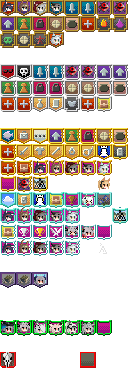
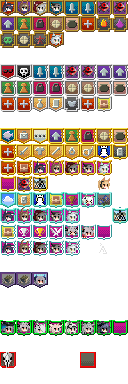
아이콘 이미지 바꾼거랑 제시카 스킨

Changed region(s): [[0.75, 0.8125, 1.0, 0.875]]

diff --git a/Arrrknights/core/src/main/java/com/shatteredpixel/shatteredpixeldungeon/actors/hero/HeroSubClass.java b/Arrrknights/core/src/main/java/com/shatteredpixel/shatteredpixeldungeon/actors/hero/HeroSubClass.java
@@ -88,35 +88,29 @@ public enum HeroSubClass {
 	public Image icon(){
 		switch (this){
 			case GLADIATOR: default:
-				return new Image(Assets.Interfaces.BUFFS_LARGE, 16, 16, 16, 16);
+				return new Image(Assets.Interfaces.BUFFS_LARGE, 0, 80, 16, 16);
 			case BERSERKER:
-				return new Image(Assets.Interfaces.BUFFS_LARGE, 32, 16, 16, 16);
+				return new Image(Assets.Interfaces.BUFFS_LARGE, 16, 80, 16, 16);
 
 			case WARLOCK:
-				return new Image(Assets.Interfaces.BUFFS_LARGE, 64, 32, 16, 16);
+				return new Image(Assets.Interfaces.BUFFS_LARGE, 32, 80, 16, 16);
 			case BATTLEMAGE:
-				Image im = new Image(Assets.Interfaces.BUFFS_LARGE, 208, 32, 16, 16);
-				im.hardlight(1f, 1f, 0f);
-				return im;
+				return new Image(Assets.Interfaces.BUFFS_LARGE, 48, 80, 16, 16);
 
 			case ASSASSIN:
-				im = new Image(Assets.Interfaces.BUFFS_LARGE, 160, 32, 16, 16);
-				im.hardlight(1f, 0f, 0f);
-				return im;
+				return new Image(Assets.Interfaces.BUFFS_LARGE, 64, 80, 16, 16);
 			case FREERUNNER:
-				im = new Image(Assets.Interfaces.BUFFS_LARGE, 48, 48, 16, 16);
-				im.hardlight(1f, 1f, 0f);
-				return im;
+				return new Image(Assets.Interfaces.BUFFS_LARGE, 80, 80, 16, 16);
 
 			case SNIPER:
-				return new Image(Assets.Interfaces.BUFFS_LARGE, 16, 48, 16, 16);
+				return new Image(Assets.Interfaces.BUFFS_LARGE, 96, 80, 16, 16);
 			case WARDEN:
-				return new Image(Assets.Interfaces.BUFFS_LARGE, 208, 0, 16, 16);
+				return new Image(Assets.Interfaces.BUFFS_LARGE, 112, 80, 16, 16);
 
 			case DESTROYER:
-				return new Image(Assets.Interfaces.BUFFS_LARGE, 0, 16, 16, 16);
+				return new Image(Assets.Interfaces.BUFFS_LARGE, 128, 80, 16, 16);
 			case GUARDIAN:
-				return new Image(Assets.Interfaces.BUFFS_LARGE, 224, 32, 16, 16);
+				return new Image(Assets.Interfaces.BUFFS_LARGE, 144, 80, 16, 16);
 		}
 	}
 	

diff --git a/Arrrknights/core/src/main/java/com/shatteredpixel/shatteredpixeldungeon/actors/mobs/npcs/Closure.java b/Arrrknights/core/src/main/java/com/shatteredpixel/shatteredpixeldungeon/actors/mobs/npcs/Closure.java
@@ -111,7 +111,20 @@ public class Closure extends NPC {
                                             GameScene.show(new WndMessage(Messages.get(Closure.class, "fail_skin5", Dungeon.hero.heroClass.title())));
                                         }});}
                                 break;
-                            case 5: // 꼬지리 스킨
+                            case 5: // 제껄룩 스킨
+                                if (Badges.isUnlocked(Badges.Badge.UNLOCK_MAGE)) {
+                                    if(!Badges.isUnlocked(Badges.Badge.SKIN_JESSI)) {Badges.validatejessiskin();}
+                                    Dungeon.hero.CharSkin = Hero.JESSI;
+                                    sprite.showStatus( CharSprite.POSITIVE, Messages.get(this, "hi"));
+                                    break;
+                                } else {sprite.showStatus( CharSprite.NEGATIVE, Messages.get(this, "no"));
+                                    Game.runOnRenderThread(new Callback() {
+                                        @Override
+                                        public void call() {
+                                            GameScene.show(new WndMessage(Messages.get(Closure.class, "fail_skin5", Dungeon.hero.heroClass.title())));
+                                        }});}
+                                break;
+                            case 6: // 꼬지리 스킨
                                 if (Badges.isUnlocked(Badges.Badge.HAPPY_END)) {
                                     if(!Badges.isUnlocked(Badges.Badge.SKIN_LAPPY)) {Badges.validatelappyskin();}
                                     Dungeon.hero.CharSkin = Hero.LAPPY;

diff --git a/Arrrknights/core/src/main/java/com/shatteredpixel/shatteredpixeldungeon/actors/mobs/npcs/SkinModel.java b/Arrrknights/core/src/main/java/com/shatteredpixel/shatteredpixeldungeon/actors/mobs/npcs/SkinModel.java
@@ -6,6 +6,7 @@ import com.shatteredpixel.shatteredpixeldungeon.levels.RhodesLevel;
 import com.shatteredpixel.shatteredpixeldungeon.messages.Messages;
 import com.shatteredpixel.shatteredpixeldungeon.scenes.GameScene;
 import com.shatteredpixel.shatteredpixeldungeon.sprites.GraniSprite;
+import com.shatteredpixel.shatteredpixeldungeon.sprites.JessiSprite;
 import com.shatteredpixel.shatteredpixeldungeon.sprites.LappySprite;
 import com.shatteredpixel.shatteredpixeldungeon.sprites.SkadiSprite;
 import com.shatteredpixel.shatteredpixeldungeon.sprites.SussurroSprite;
@@ -39,7 +40,9 @@ public class SkinModel extends NPC {
            break;
            case 4: spriteClass= GraniSprite.class;
            break;
-           case 5: spriteClass= LappySprite.class;
+           case 5: spriteClass= JessiSprite.class;
+               break;
+           case 6: spriteClass= LappySprite.class;
            break;
 
        }
@@ -77,7 +80,7 @@ public class SkinModel extends NPC {
     public void SkinChange()
     {
         skin_ch++;
-        if (skin_ch > 5) skin_ch = 0;
+        if (skin_ch > 6) skin_ch = 0;
 
         int ppos = this.pos;
         this.destroy();

diff --git a/Arrrknights/core/src/main/java/com/shatteredpixel/shatteredpixeldungeon/sprites/JessiSprite.java b/Arrrknights/core/src/main/java/com/shatteredpixel/shatteredpixeldungeon/sprites/JessiSprite.java
@@ -1,0 +1,38 @@
+package com.shatteredpixel.shatteredpixeldungeon.sprites;
+
+import com.shatteredpixel.shatteredpixeldungeon.Assets;
+import com.watabou.noosa.MovieClip;
+import com.watabou.noosa.TextureFilm;
+
+public class JessiSprite extends MobSprite{
+    public JessiSprite() {
+        super();
+
+        texture( Assets.Sprites.JESSI );
+
+        TextureFilm frames = new TextureFilm( texture, 36, 36 );
+
+        idle = new MovieClip.Animation( 2, true );
+        idle.frames( frames, 50 );
+
+        run = new MovieClip.Animation( 15, false );
+        run.frames( frames, 50 );
+
+        attack = new MovieClip.Animation( 15, false );
+        attack.frames( frames, 50 );
+
+        zap = attack.clone();
+
+        die = new MovieClip.Animation( 8, false );
+        die.frames( frames, 50 );
+
+        play( idle.clone() );
+    }
+
+    @Override
+    public void idle() {
+        isMoving = false;
+        super.idle();
+    }
+
+}

diff --git a/Arrrknights/core/src/main/java/com/shatteredpixel/shatteredpixeldungeon/sprites/HeroSprite.java b/Arrrknights/core/src/main/java/com/shatteredpixel/shatteredpixeldungeon/sprites/HeroSprite.java
@@ -63,7 +63,9 @@ public class HeroSprite extends CharSprite {
 			break;
 			case 5: texture(Assets.Sprites.GRN); // ㄱㄹㄴ!
 			break;
-			case 6: texture(Assets.Sprites.LAPPY); // ㄱㄹㄴ!
+			case 6: texture(Assets.Sprites.JESSI); // 제껄룩
+				break;
+			case 7: texture(Assets.Sprites.LAPPY); // 꼬지리
 				break;
 		}
 		updateArmor();
@@ -91,7 +93,9 @@ public class HeroSprite extends CharSprite {
 				break;
 			case 5: texture(Assets.Sprites.GRN); // 그라니
 				break;
-			case 6: texture(Assets.Sprites.LAPPY); // 그라니
+			case 6: texture(Assets.Sprites.JESSI); // 제껄룩
+				break;
+			case 7: texture(Assets.Sprites.LAPPY); // 그라니
 				break;
 		}
 		TextureFilm film = new TextureFilm(tiers(), Dungeon.hero.tier(), 36, 34);

diff --git a/Arrrknights/core/src/main/java/com/shatteredpixel/shatteredpixeldungeon/Badges.java b/Arrrknights/core/src/main/java/com/shatteredpixel/shatteredpixeldungeon/Badges.java
@@ -206,7 +206,8 @@ public class Badges {
 		SKIN_NOVA(162),
 		SKIN_SUSUU(163),
 		SKIN_GRN(164),
-		SKIN_LAPPY(165);
+		SKIN_LAPPY(165),
+		SKIN_JESSI(166);
 
 		public boolean meta;
 
@@ -916,6 +917,11 @@ public class Badges {
 
 	public static void validategrnskin() {
 		Badge badge = Badge.SKIN_GRN;
+		displayBadge( badge );
+	}
+
+	public static void validatejessiskin() {
+		Badge badge = Badge.SKIN_JESSI;
 		displayBadge( badge );
 	}
 

diff --git a/Arrrknights/core/src/main/java/com/shatteredpixel/shatteredpixeldungeon/ui/Icons.java b/Arrrknights/core/src/main/java/com/shatteredpixel/shatteredpixeldungeon/ui/Icons.java
@@ -65,6 +65,7 @@ public enum Icons {
 	RED,
 	HUNTRESS,
 	ROSEMON,
+	COMBO,
 	
 	//main menu icons
 	ENTER,
@@ -221,7 +222,9 @@ public enum Icons {
 			case ROSEMON:
 				icon.frame( icon.texture.uvRect( 96, 48, 112, 61 ) );
 				break;
-
+			case COMBO:
+				icon.frame( icon.texture.uvRect( 112, 48, 128, 64 ) );
+				break;
 			case ENTER:
 			icon.frame( icon.texture.uvRect( 0, 64, 16, 80 ) );
 			break;

diff --git a/Arrrknights/core/src/main/java/com/shatteredpixel/shatteredpixeldungeon/Assets.java b/Arrrknights/core/src/main/java/com/shatteredpixel/shatteredpixeldungeon/Assets.java
@@ -427,6 +427,7 @@ public class Assets {
 		public static final String GRN	= "sprites/grani.png";
 		public static final String SKD	= "sprites/skadi.png";
 		public static final String SSR	= "sprites/sussurro.png";
+		public static final String JESSI	= "sprites/jessica.png";
 		public static final String LAPPY	= "sprites/lappy.png";
 
 	}

diff --git a/Arrrknights/core/src/main/java/com/shatteredpixel/shatteredpixeldungeon/actors/hero/Hero.java b/Arrrknights/core/src/main/java/com/shatteredpixel/shatteredpixeldungeon/actors/hero/Hero.java
@@ -216,7 +216,8 @@ public class Hero extends Char {
     public static final int SKADI = 3;
     public static final int SSR = 4;
     public static final int GRANI = 5;
-    public static final int LAPPY = 6;
+    public static final int JESSI = 6;
+    public static final int LAPPY = 7;
 
     {
         actPriority = HERO_PRIO;

diff --git a/Arrrknights/core/src/main/java/com/shatteredpixel/shatteredpixeldungeon/actors/hero/HeroClass.java b/Arrrknights/core/src/main/java/com/shatteredpixel/shatteredpixeldungeon/actors/hero/HeroClass.java
@@ -393,7 +393,8 @@ public enum HeroClass {
 				case 3: return Assets.Sprites.SKD;
 				case 4: return Assets.Sprites.SSR;
 				case 5: return Assets.Sprites.GRN;
-				case 6: return Assets.Sprites.LAPPY;
+				case 6: return Assets.Sprites.JESSI;
+				case 7: return Assets.Sprites.LAPPY;
 			}
 		}
 		switch (this) {

diff --git a/Arrrknights/core/src/main/java/com/shatteredpixel/shatteredpixeldungeon/windows/WndCombo.java b/Arrrknights/core/src/main/java/com/shatteredpixel/shatteredpixeldungeon/windows/WndCombo.java
@@ -56,7 +56,7 @@ public class WndCombo extends Window {
 		pos = title.bottom() + 3*MARGIN;
 
 		Image icon;
-		icon = Icons.get(Icons.WARRIOR);
+		icon = Icons.get(Icons.COMBO);
 
 		for (Combo.ComboMove move : Combo.ComboMove.values()) {
 			Image ic = new Image(icon);
